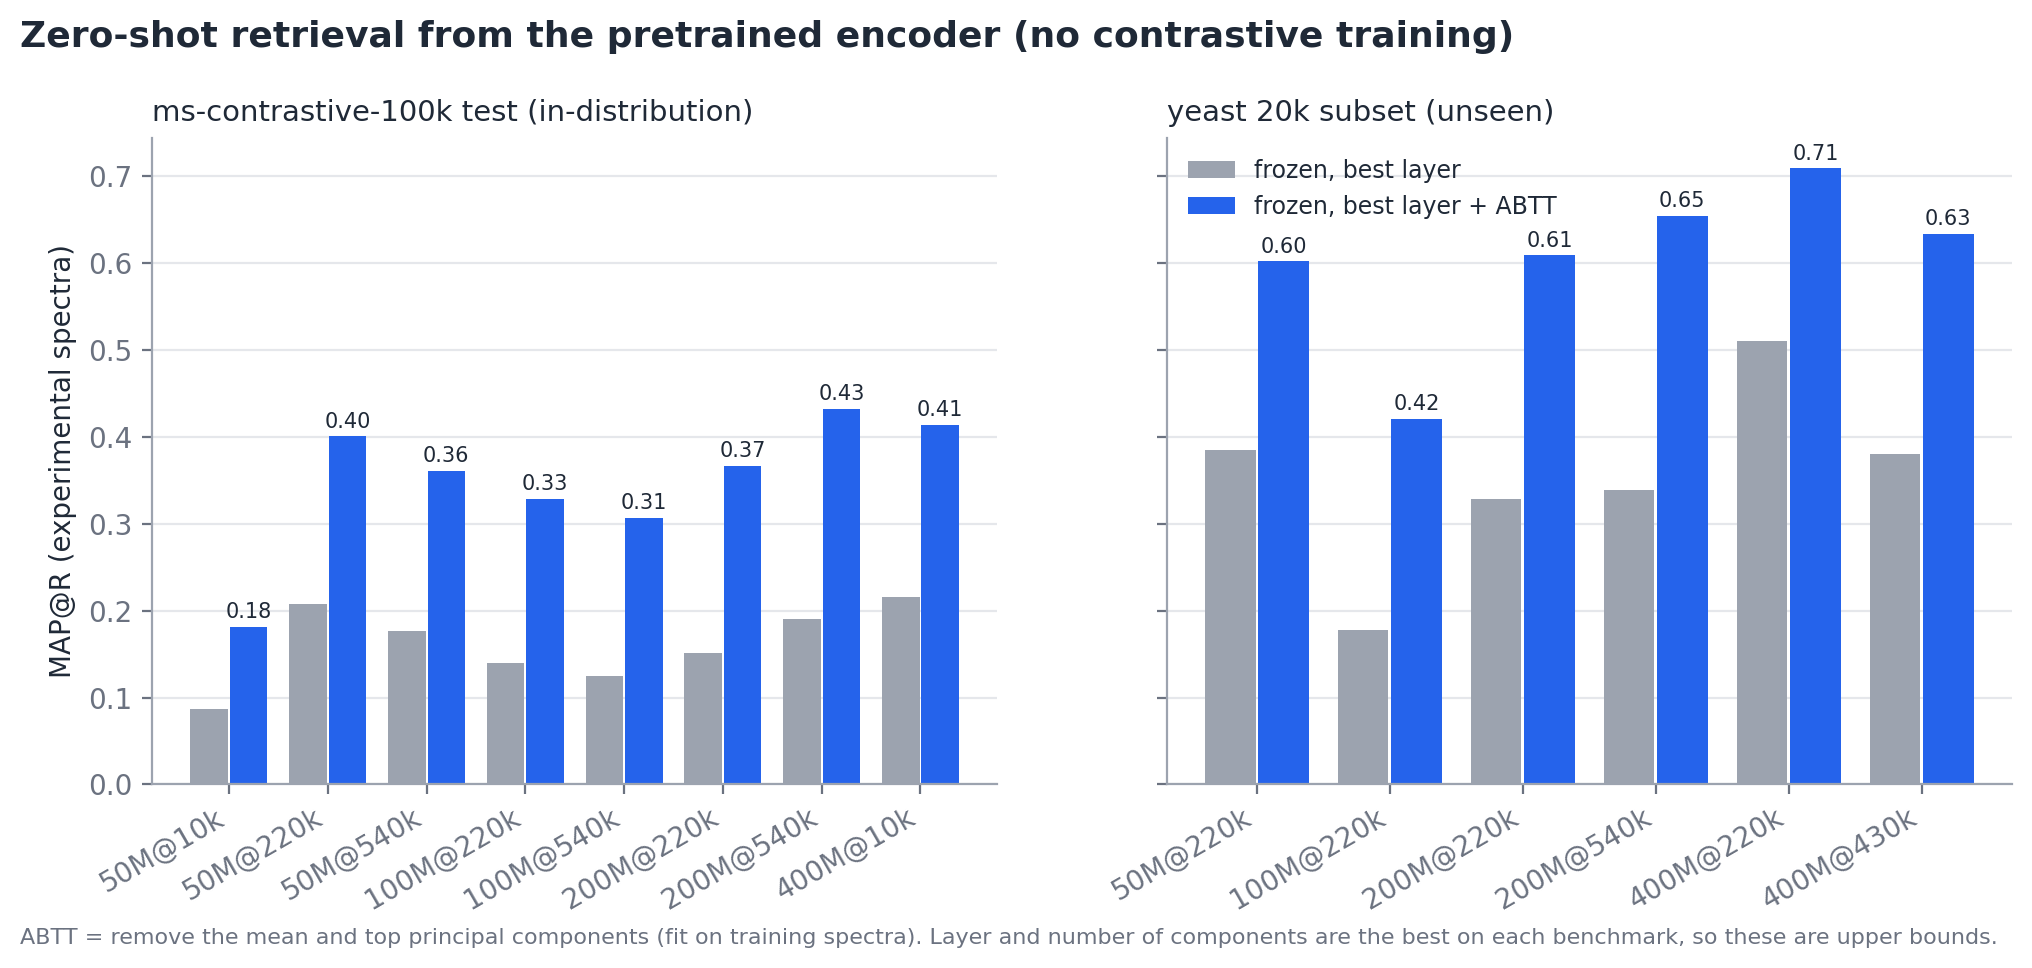
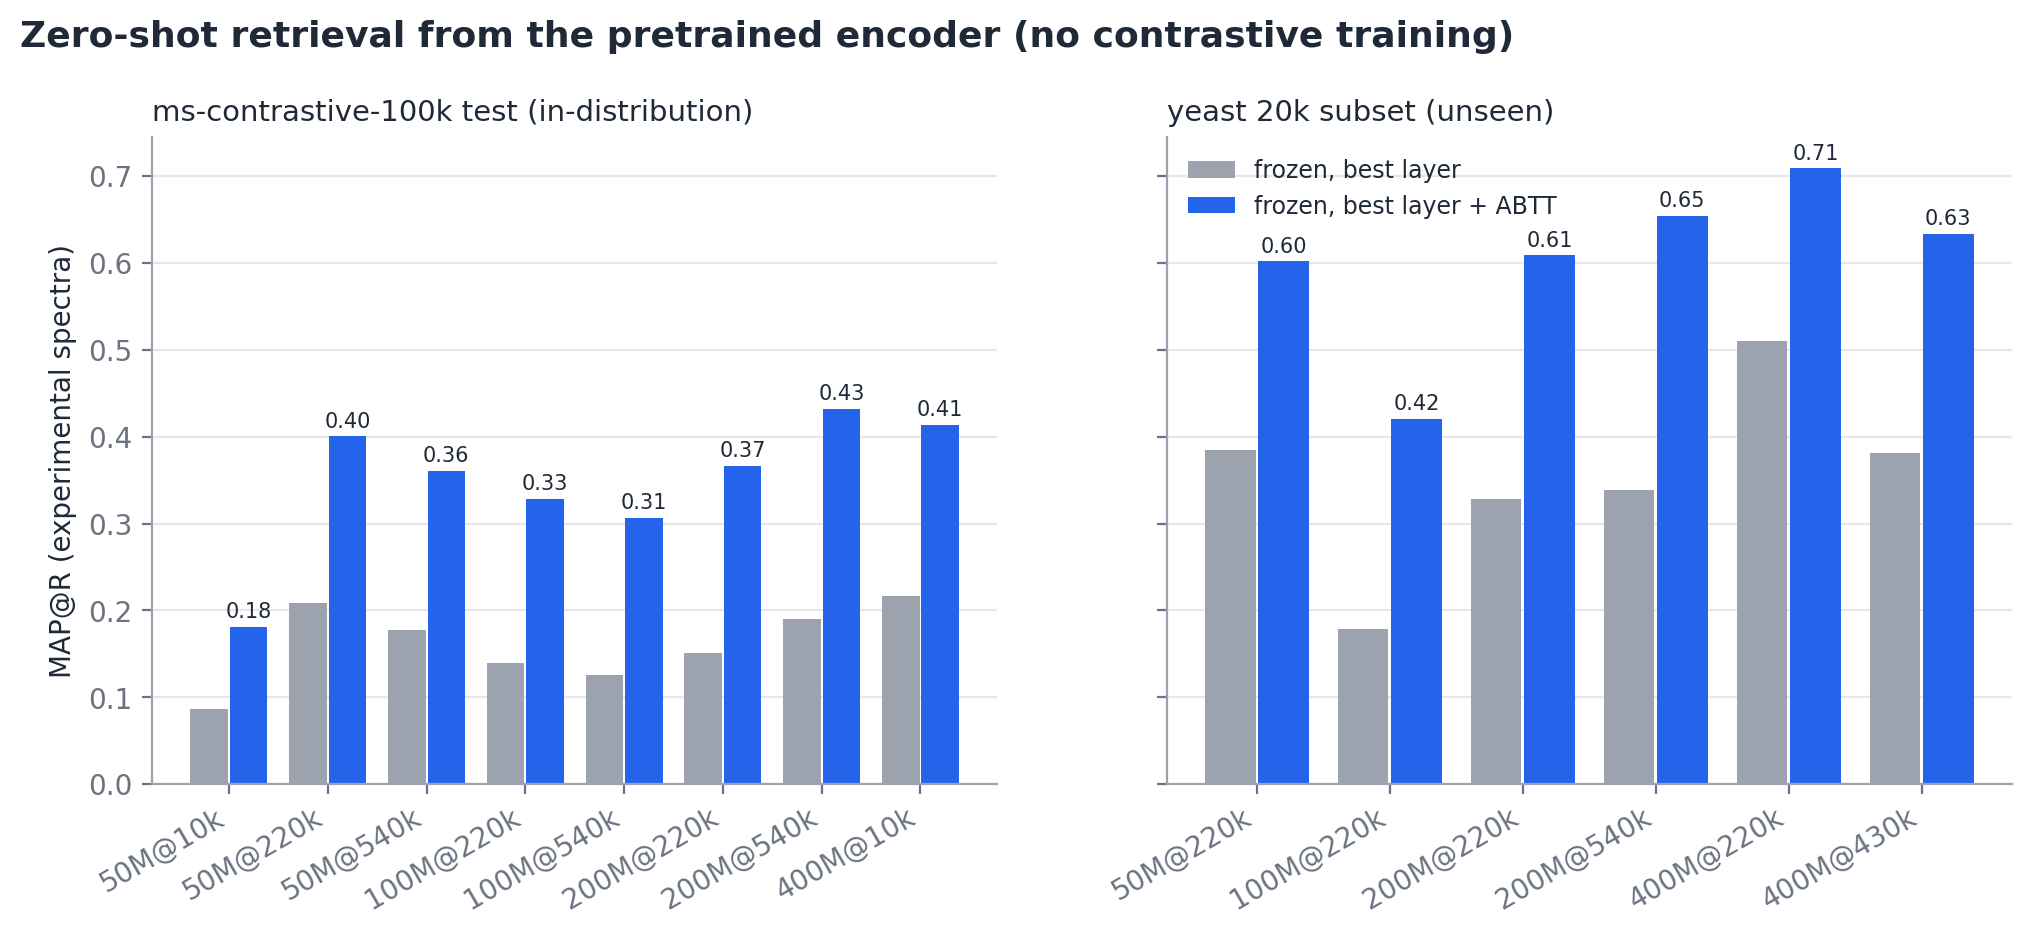
C figures: transfer as per-dataset method comparison; drop zero-shot footnote
Claude-Session: https://claude.ai/code/session_01ATgkXx1oRRqvzB3G8wYeta

diff --git a/sweeps/package_contrastive.py b/sweeps/package_contrastive.py
@@ -210,36 +210,46 @@ def fig_zeroshot(zs):
         axes[1].legend(frameon=False, fontsize=8.5, loc="upper left")
         fig.suptitle("Zero-shot retrieval from the pretrained encoder (no contrastive training)", x=0.07, ha="left",
                      fontsize=13, fontweight="bold", y=1.02)
-        fig.text(0.07, -0.08, "ABTT = remove the mean and top principal components (fit on training spectra). "
-                 "Layer and number of components are the best on each benchmark, so these are upper bounds.",
-                 fontsize=8, color=MUTED)
         fig.savefig(FIG / "C_zeroshot.png"); plt.close(fig)
 
 
 def fig_transfer(rows):
-    steps = ["s300", "s600", "s900", "final"]
     meth = "C7 (replicate corpus -> ms-contrastive-100k)"
-    lines = [("ms-contrastive-100k", "in-distribution test", OURS),
-             ("oodval-8species", "unseen: 8 other species (validation)", "#7c3aed"),
-             ("yeast-20k", "unseen: yeast 20k (test)", "#db2777")]
+    steps = [("s300", "C7, step 300"), ("s600", "C7, step 600"), ("s900", "C7, step 900"), ("final", "C7, end of epoch")]
+    blues = ["#bfdbfe", "#60a5fa", "#2563eb", "#1e3a8a"]
+    panels = [("ms-contrastive-100k", "ms-contrastive-100k test\n(in-distribution)"),
+              ("oodval-8species", "8 other species\n(unseen, validation)"),
+              ("yeast-20k", "yeast 20k subset\n(unseen, test)")]
+    others = [("replicate corpus only", "#14b8a6", lambda b: pick(rows, b, "replicate corpus only (12 ep)", "400m")),
+              ("GLEAMS", GLEAMS, lambda b: pick(rows, b, "GLEAMS (pretrained)")),
+              ("binned cosine", BINNED, lambda b: [max(pick(rows, b, "binned cosine (1 Da bins)")
+                                                      + pick(rows, b, "binned cosine (0.1 Da bins)"))]
+               if pick(rows, b, "binned cosine (1 Da bins)") + pick(rows, b, "binned cosine (0.1 Da bins)") else [])]
+    series = [(lab, blues[k], (lambda st: lambda b: pick(rows, b, meth, "400m", stage=st))(st))
+              for k, (st, lab) in enumerate(steps)] + others
     with plt.rc_context(STYLE):
-        fig, ax = plt.subplots(figsize=(7.2, 4.4))
-        ax.yaxis.grid(True, color=GRIDC, lw=0.8); ax.set_axisbelow(True)
-        for b, lab, col in lines:
-            pts = [(i, pick(rows, b, meth, "400m", stage=s)) for i, s in enumerate(steps)]
-            pts = [(i, msd(v)) for i, v in pts if v]
-            ax.errorbar([p[0] for p in pts], [p[1][0] for p in pts], yerr=[p[1][1] for p in pts], color=col,
-                        lw=2, marker="o", ms=6.5, mec="white", mew=1.2, capsize=3.5, elinewidth=1.2, label=lab, zorder=3)
-        g = pick(rows, "yeast-20k", "GLEAMS (pretrained)")
-        if g:
-            ax.axhline(g[0], color=GLEAMS, lw=1.2, ls="--"); ax.text(3.05, g[0], "GLEAMS\n(yeast 20k)", va="center", fontsize=8, color=GLEAMS)
-        ax.set_xticks(range(4)); ax.set_xticklabels(["300", "600", "900", "end (1 epoch)"])
-        ax.set_xlabel("ms-contrastive-100k fine-tuning step", labelpad=6); ax.set_ylabel("MAP@R", labelpad=6)
-        ax.set_title("Fine-tuning improves in-distribution, peaks early on unseen data", loc="left", fontsize=12,
-                     fontweight="bold", pad=12)
-        ax.legend(frameon=False, fontsize=8.5, loc="lower left")
-        fig.text(0.01, -0.04, "C7 400M. Mean ± sd over 3 seeds where available (yeast 20k steps 300–900: seed 0 only).",
-                 fontsize=8, color=MUTED)
+        fig, axes = plt.subplots(1, 3, figsize=(13, 4.4), sharey=True)
+        for ax, (b, title) in zip(axes, panels):
+            ax.yaxis.grid(True, color=GRIDC, lw=0.8); ax.set_axisbelow(True)
+            x = 0
+            for lab, col, get in series:
+                v = get(b)
+                if v:
+                    m, s_ = msd(v)
+                    ax.bar(x, m, 0.8, color=col, yerr=s_ if len(v) > 1 else None, capsize=3,
+                           error_kw=dict(elinewidth=1, capthick=1, ecolor=INK), zorder=2)
+                    ax.text(x, m + (s_ if len(v) > 1 else 0) + 0.015, f"{m:.2f}", ha="center", fontsize=8)
+                    x += 1
+                if lab == steps[-1][1]:
+                    x += 0.6                                   # gap between our trajectory and the baselines
+            ax.set_xticks([]); ax.set_title(title, loc="left", fontsize=10.5)
+            ax.set_xlim(-0.7, x - 0.3)
+        axes[0].set_ylim(0, 1.0); axes[0].set_ylabel("MAP@R (experimental spectra)")
+        fig.suptitle("Fine-tuning helps in-distribution; on unseen data it peaks early and trails the baselines",
+                     x=0.07, ha="left", fontsize=13, fontweight="bold", y=1.03)
+        fig.legend(handles=[plt.Rectangle((0, 0), 1, 1, color=c) for _, c, _ in series],
+                   labels=[l for l, _, _ in series], frameon=False, fontsize=9, ncol=7,
+                   loc="upper center", bbox_to_anchor=(0.5, 0.02))
         fig.savefig(FIG / "C_transfer.png"); plt.close(fig)
 
 
